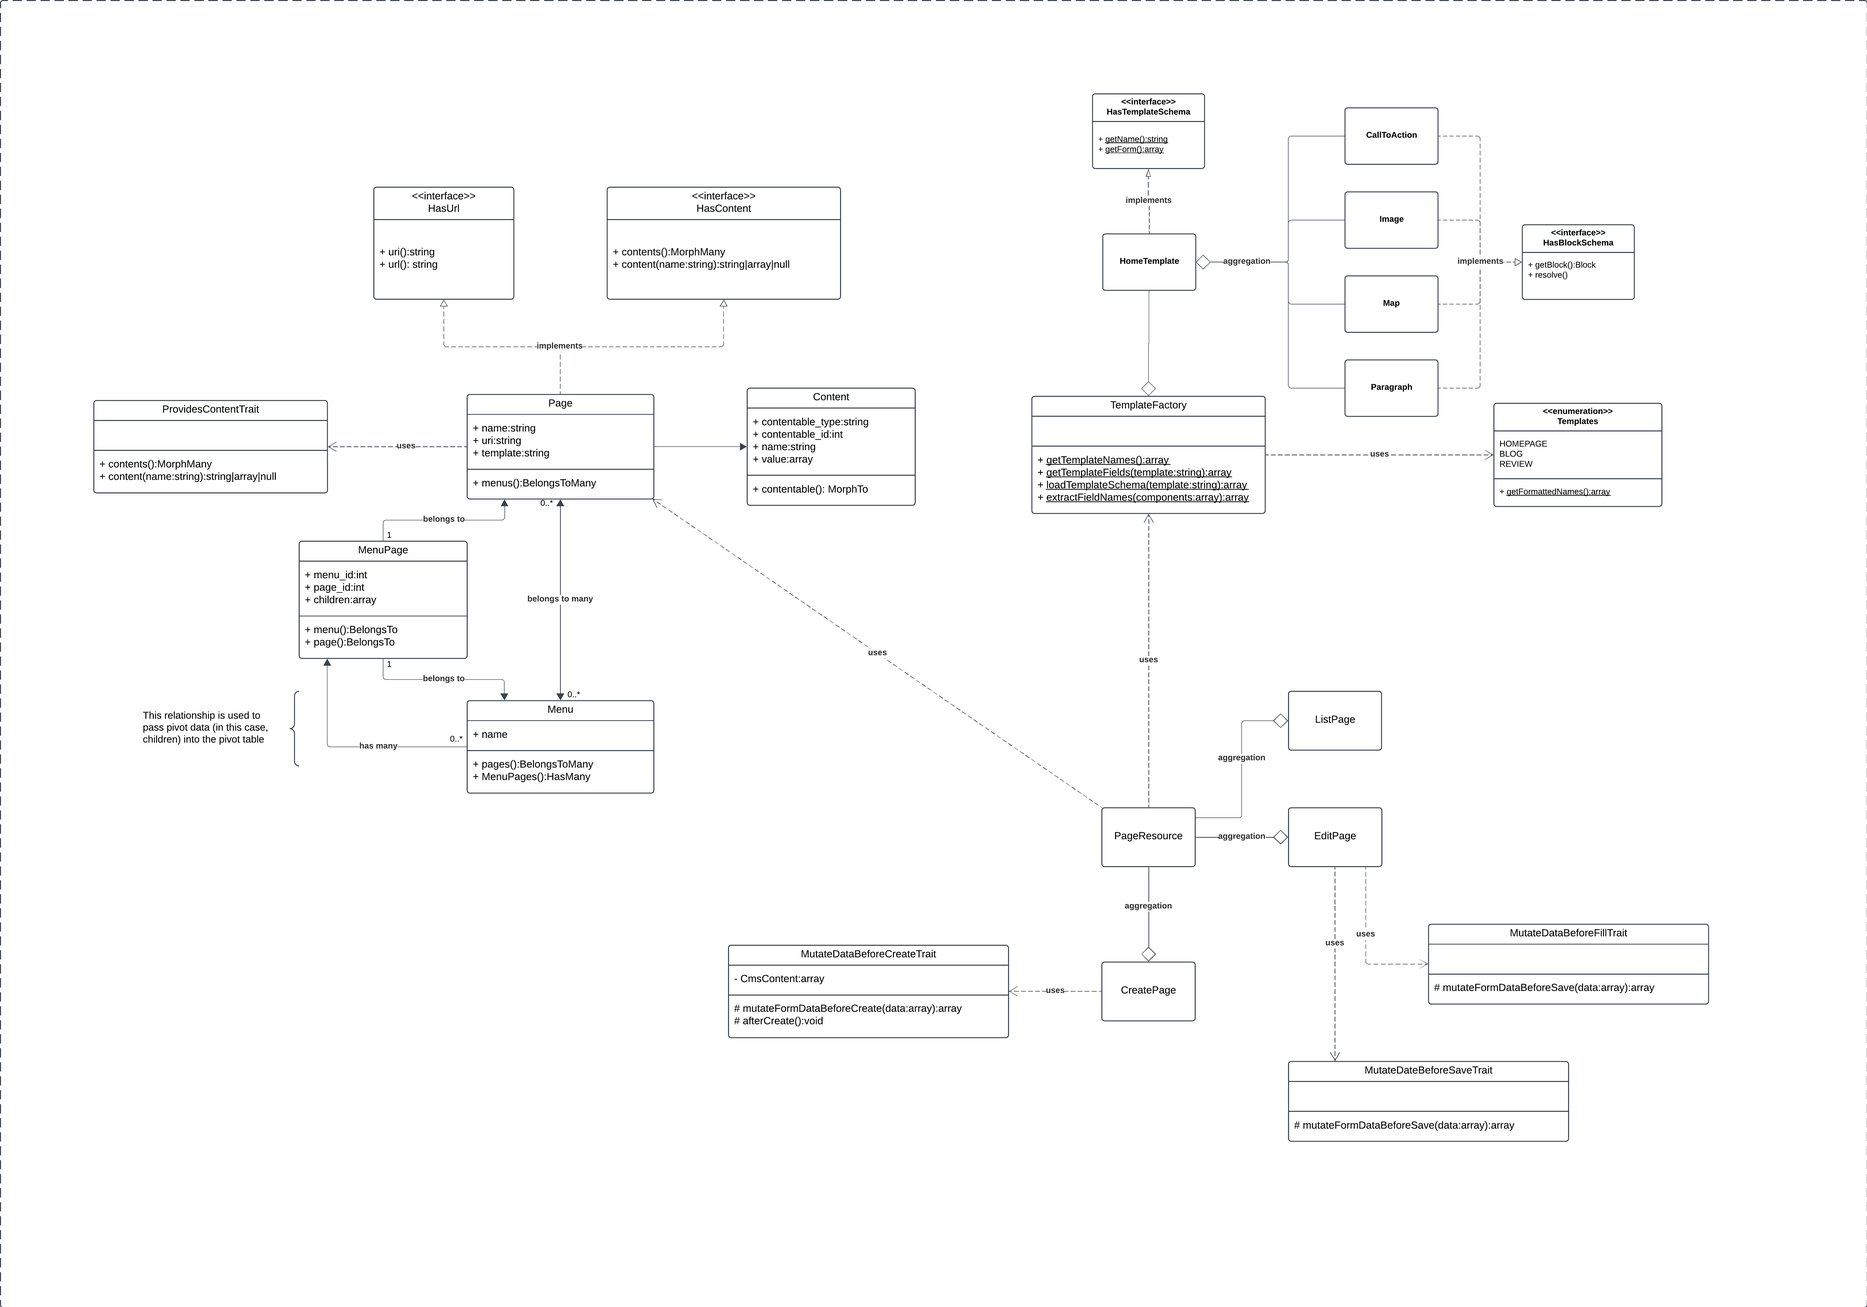
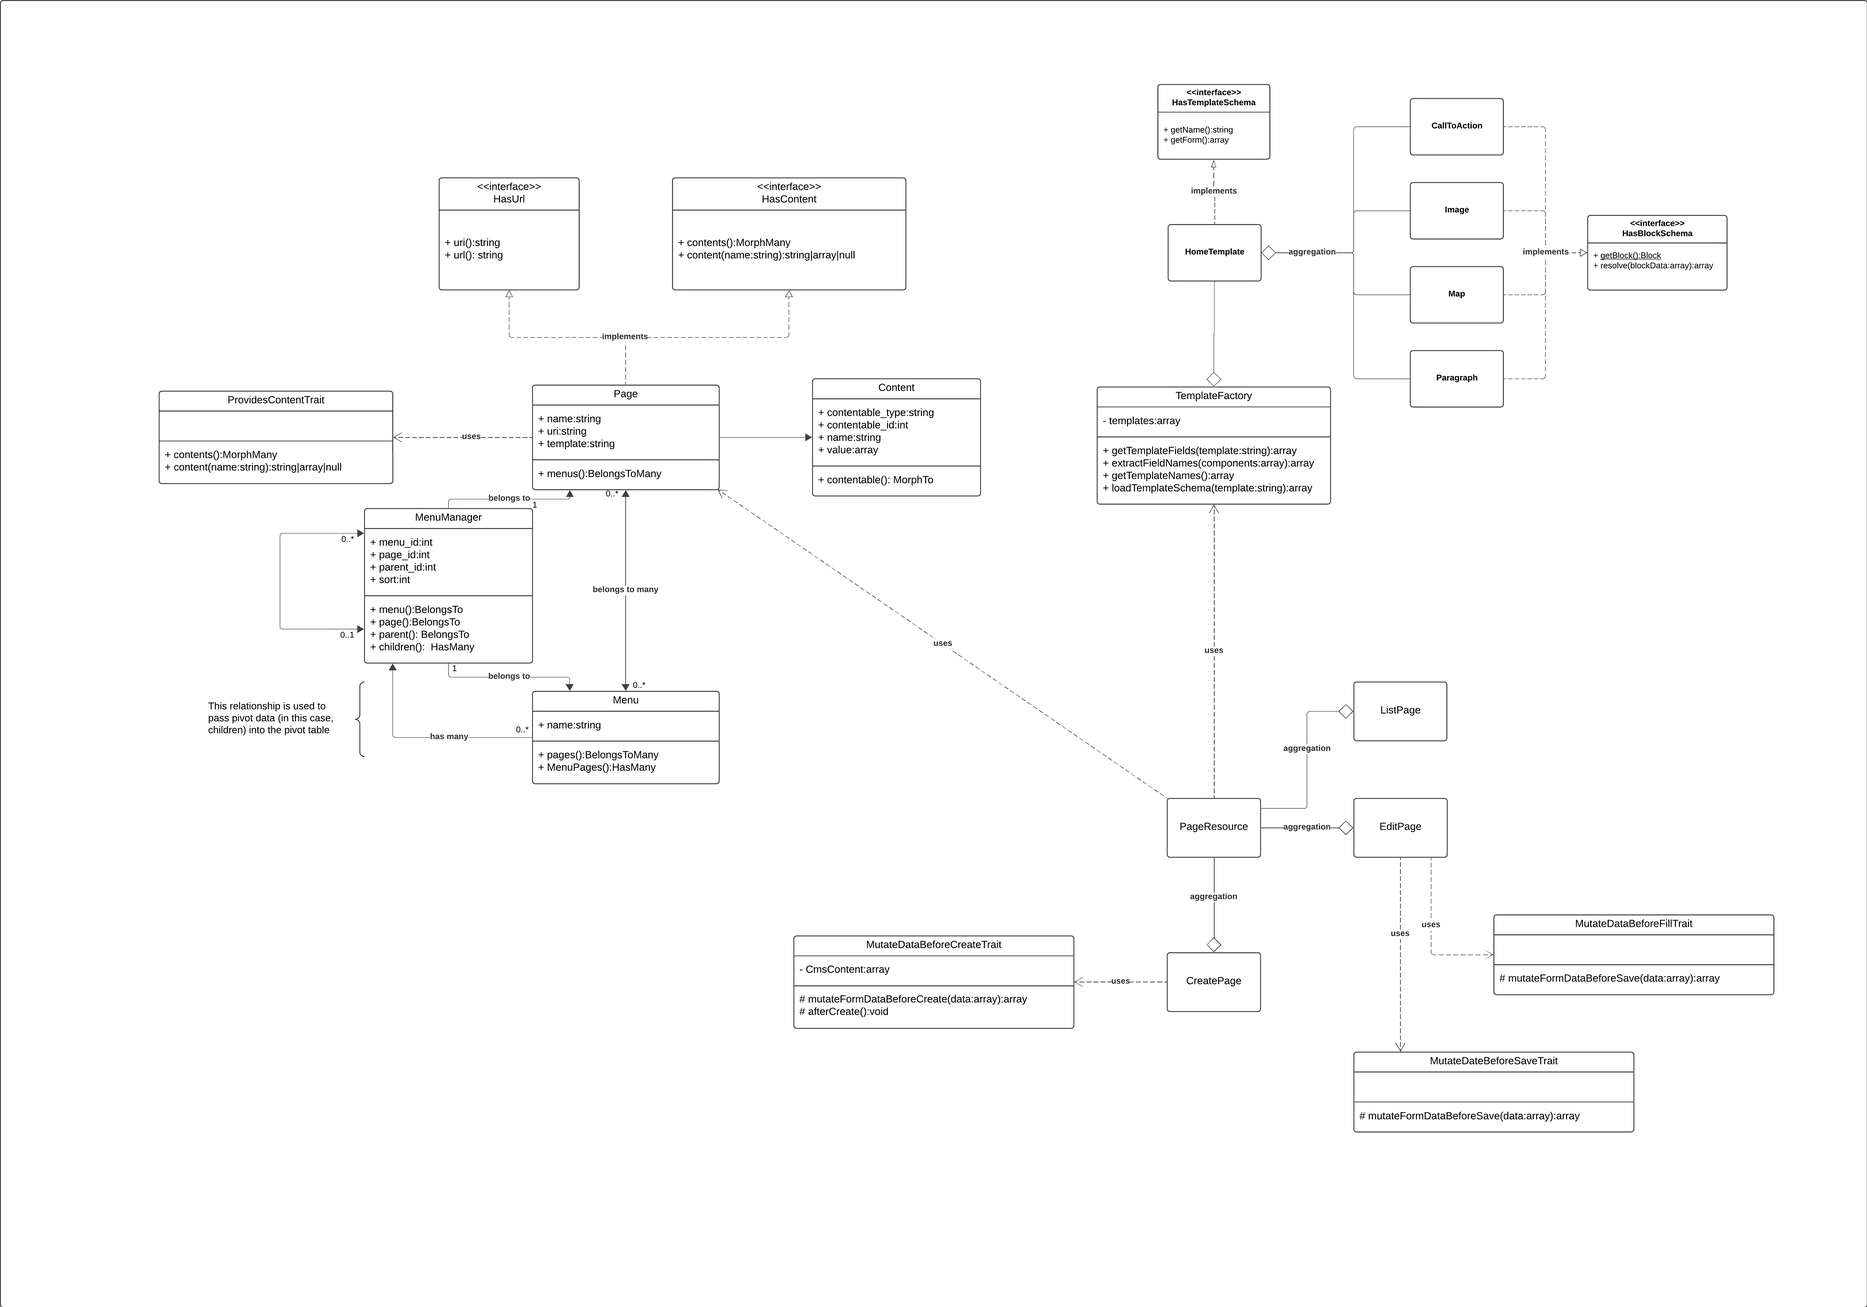
update leeswijzer and prototype documentation

diff --git a/DesignRealisatie/TechnischeDocumentatieCmsPrototypes.md b/DesignRealisatie/TechnischeDocumentatieCmsPrototypes.md
@@ -1,7 +1,7 @@
-# CMS Prototypes Realisatie
+# Technische Documentatie CMS Prototypes
 
-Dit document geeft een overzicht van de basisfunctionaliteiten van een Content Management Systeem (CMS) en beschrijft hoe de prototypes kunnen worden opgebouwd.
-## Contentbeheer in AllesOnline CMS
+Dit document geeft een overzicht over de werking van de verschillende Content Management Systemen en beschrijft hoe de ze opgebouwd worden.
+## AllesOnline CMS
 
 ### ContentManagerController
 In het AllesOnline CMS worden pagina’s en hun content beheerd via de `ContentManagerController`. Deze controller wordt meestal zonder aanpassingen geïmporteerd vanuit het AllesOnline CMS-pakket en biedt toegang tot de `ManagedContent`, `Page`, en `CMSContent`-modellen voor de configuratie van content-elementen.
@@ -22,7 +22,7 @@ class ContentManagerController extends ContentManager
 ```
 
 ### XML-schema voor Templates met CMS-content
-Binnen de `ContentManager` worden `Page`-objecten dynamisch gegenereerd via XML-templates die specificeren welke velden (zoals tekst, afbeeldingen en blokken) kunnen worden toegevoegd. Dit stelt ontwikkelaars in staat om template-schema's te definiëren voor CMS-gebruikers.
+Binnen de `ContentManager` worden `Page`-objecten dynamisch gegenereerd via XML-templates die specificeren welke velden (zoals tekst, afbeeldingen en blokken) kunnen worden toegevoegd. Dit stelt developers in staat om template-schema's te definiëren voor CMS-gebruikers.
 
 **XML-schema voor Template in AO CMS**
 
@@ -52,9 +52,9 @@ Contentblokken kunnen ook worden gedefinieerd met XML en vervolgens in verschill
 
 Dit blok bevat een titel- en tekstveld met RichText-functionaliteit voor tekstopmaak.
 
-## Contentbeheer in CMS met Filament
+## CMS met Filament
 
-In Filament kan een soortgelijke functionaliteit worden gerealiseerd door gebruik te maken van Resources en een Eloquent-model gebaseerd op het `Page`-model van AllesOnline CMS. Dit model bevat de gegevens en relaties van pagina’s en hun hiërarchie.
+In Filament kan een soortgelijke functionaliteit worden gerealiseerd door gebruik te maken van Resources en een Eloquent-model geinspireerd op het `Page`-model van AllesOnline CMS. Dit model bevat de gegevens en relaties van pagina’s en hun hiërarchie.
 
 *Een UML class-diagram met het onderstaande concept voor content management kan je [hier bekijken](../Bijlagen/UmlEntiteitenDiagramContentManagementFilament.md)*
 
@@ -70,13 +70,13 @@ namespace App\Models;
 
 use App\Models\Interfaces\HasContent;
 use App\Models\Interfaces\HasUrl;
-use App\Models\Traits\ProvideContent;
+use App\Models\Traits\ProvidesContentTrait;
 use Illuminate\Database\Eloquent\Model;
 use Illuminate\Database\Eloquent\Relations\BelongsToMany;
 
 class Page extends Model implements HasContent, HasUrl
 {
-    use ProvideContent;
+    use ProvidesContentTrait;
 
     protected $table = 'pages';
 
@@ -156,7 +156,7 @@ interface HasUrl
 ### Traits
 
 #### ProvidesContentTrait
-Zoals eerder omschreven bevat de `ProvidesContentTrait` de logica voor de polymorfe relatie tussen het model dat `HasContent` implementeert en het Content-model.
+De `ProvidesContentTrait` bevat de logica voor de polymorfe relatie tussen het model dat `HasContent` implementeert en het Content-model. Door gebruik te maken van een **trait** kan deze logica op een eenvoudige manier worden hergebruikt. Als er andere functionaliteit nodig is, kan er een nieuwe trait worden gedefinieerd, of kunnen de functies uit de `HasContent`-interface direct in de betreffende class worden geïmplementeerd.
 
 ```php
 <?php
@@ -181,13 +181,15 @@ trait ProvidesContentTrait
 ```
 
 ### Filament PageResource en Dynamische Templates
-Met dit `Page`-model kan een Filament `PageResource` een formulier genereren voor het beheren van pagina’s. Een selectievak stelt de gebruiker in staat een template te kiezen, waarna het formulier dynamisch wordt aangepast op basis van de geselecteerde template.
+Met het `Page`-model kan een Filament `PageResource` een formulier genereren voor het beheren van pagina’s. Een select-veld stelt de gebruiker in staat om een template te kiezen, waarna het formulier dynamisch de velden van de bijbehorende template inlaadt.
 
 **Schema voor Content Management in CMS met Filament**
 
 ```php
 public static function form(Form $form): Form
     {
+        $templateFactory = app(TemplateFactory::class);
+
         return $form
             ->schema([
                 Forms\Components\Section::make()->schema([
@@ -203,18 +205,21 @@ public static function form(Form $form): Form
                         ->unique(ignoreRecord: true)
                         ->required(),
 
+					// Het select veld voor het selecteren van een template
                     Forms\Components\Select::make('template')
-                        ->options(TemplateFactory::getTemplateNames())
+                        ->options($templateFactory->getTemplateNames())
                         ->required()
                         ->live(),
 
+					// Het onderdeel van het formulier dat dynamisch wordt 
+					//  ingeladen nadat de gebruiker een template selecteert
                     Forms\Components\Section::make()
-                        ->schema(function (Get $get) {
+                        ->schema(function (Get $get) use ($templateFactory) {
                             if ($get('template')) {
                                 return 
-									TemplateFactory::loadTemplateSchema(
-										$get('template')
-									);
+	                                $templateFactory->loadTemplateSchema(
+		                                $get('template')
+		                            );
                             }
 
                             return [];
@@ -225,7 +230,7 @@ public static function form(Form $form): Form
 ```
 
 ### TemplateFactory voor Dynamische Template-selectie
-De `TemplateFactory`-class ondersteunt de selectie en dynamische weergave van velden op basis van het door de gebruiker gekozen template.
+De `TemplateFactory`-class ondersteunt de selectie en dynamische weergave van velden op basis van het door de gebruiker gekozen template in de `PageResource`.
 
 **TemplateFactory in CMS met Filament**
 
@@ -234,34 +239,18 @@ De `TemplateFactory`-class ondersteunt de selectie en dynamische weergave van ve
 
 namespace App\Cms;
 
-use App\Cms\Templates\Enums\Templates;
 use App\Cms\Templates\Interfaces\HasTemplateSchema;
 
-class TemplateFactory
+readonly class TemplateFactory
 {
-    public static function getTemplateNames(): array
+    public function __construct(private array $templates) {}
+
+    public function getTemplateFields(string $template): array
     {
-        return Templates::getFormattedNames();
+        return $this->extractFieldNames($this->loadTemplateSchema($template));
     }
 
-    public static function getTemplateFields(string $template): array
-    {
-        return self::extractFieldNames(self::loadTemplateSchema($template));
-    }
-
-    public static function loadTemplateSchema(string $template): array
-    {
-        if (! class_exists($template)) {
-            abort(404);
-        }
-
-        $templateClass = new $template;
-        return $templateClass instanceof HasTemplateSchema 
-        ? $templateClass->getForm() 
-        : [];
-    }
-
-    protected static function extractFieldNames(array $components): array
+    protected function extractFieldNames(array $components): array
     {
         $fields = [];
 
@@ -269,22 +258,41 @@ class TemplateFactory
             if (method_exists($component, 'getName')) {
                 $fields[] = $component->getName();
             }
-
-            if (method_exists($component, 'getSchema')) {
-                $fields = array_merge(
-	                $fields, 
-	                self::extractFieldNames($component->getSchema())
-                );
-            }
         }
 
         return $fields;
+    }
+
+    public function getTemplateNames(): array
+    {
+        $formattedNames = [];
+
+        foreach ($this->templates as $className => $templateClass) {
+            if ($templateClass instanceof HasTemplateSchema) {
+                $formattedNames[$className] = $templateClass->getName();
+            }
+        }
+
+        return $formattedNames;
+    }
+
+    public function loadTemplateSchema(string $template): array
+    {
+        if (! class_exists($template)) {
+            abort(404);
+        }
+
+        $templateClass = new $template;
+
+        return $templateClass instanceof HasTemplateSchema
+            ? $templateClass->getForm()
+            : [];
     }
 }
 ```
 
 ### Class voor Templates in CMS met Filament
-Template-velden worden beheerd in specifieke classes die een array met Filament FormField-componenten teruggeven aan de Resource.
+Een `Template` wordt beheerd in een specifieke class die een array met Filament FormField-componenten teruggeven aan een `Resource`.
 
 **Template-class in CMS met Filament**
 
@@ -302,14 +310,14 @@ use Filament\Forms\Components\Builder;
 use Filament\Forms\Components\FileUpload;
 use Filament\Forms\Components\TextInput;
 
-class Homepage implements HasTemplateSchema
+class HomeTemplate implements HasTemplateSchema
 {
-	public static function getName(): string
-	{
-		return 'Homepage';
-	}
+    public function getName(): string
+    {
+        return 'Homepage';
+    }
 
-    public static function getForm(): array
+    public function getForm(): array
     {
         return [
             TextInput::make('header_title')
@@ -333,12 +341,10 @@ class Homepage implements HasTemplateSchema
 }
 ```
 
-Het bovenstaande template bevat, net zoals het AO CMS-template, een veld voor een headerafbeelding en een titel. Gebruikers kunnen ook blokken selecteren om toe te voegen.
+Het bovenstaande sjabloon bevat een veld voor een headerafbeelding, een titel en biedt de mogelijkheid om contentblokken toe te voegen.
 
 ### Interfaces
-Alle templates implementeren de interface `HasTemplateSchema`. Deze interface vereist dat de classes die het implementeren een schema voor hun CMS content beschikbaar stelt. Door dit te implementeren, kunnen we garanderen dat een template - dat in de `TemplateFactory` wordt geïnjecteerd - over de functionaliteit beschikt om dit schema op te halen.
-
-Om het ophalen van het _FormSchema_ gemakkelijker te maken voor developers, is ervoor gekozen om de functie `static` te maken. Dit kan het DIP-principe van SOLID schenden en leiden tot een _tight coupling_. Echter, in gevallen waarin dit gebeurt, is het vanzelfsprekend dat er een sterke afhankelijkheid bestaat tussen het schema en de functie die het schema opvraagt. Neem bijvoorbeeld het `Review`-model, dat voor zijn CMS-content gebruik zal maken van de `ReviewTemplate`-class.
+Een `Template` implementeert de interface `HasTemplateSchema`. Deze interface vereist dat classes een schema voor hun CMS-content en een naam beschikbaar stellen. Het schema wordt verwacht in de `TemplateFactory`, terwijl de naam wordt gebruikt in het select-veld waarin gebruikers in de `Page`-resource een template kiezen.
 
 **HasTemplateSchema interface in het CMS met Filament**
 
@@ -349,45 +355,9 @@ namespace App\Cms\Templates\Interfaces;
 
 interface HasTemplateSchema
 {
-    public static function getForm(): array;
-}
-```
+    public function getName(): string;
 
-### Enums
-Alle templates die gebruikers kunnen selecteren binnen het `Page`-model worden centraal beheerd in `Templates`. Deze `enum` bevat verschillende cases, waarbij elke case de classname van een specifieke template vertegenwoordigt. Naast het eenvoudig bijhouden van deze classnames biedt de enum aanvullende functionaliteit om de cases op een voor de gebruiker leesbare manier te presenteren.
-
-```php
-<?php
-
-namespace App\Cms\Templates\Enums;
-
-use App\Cms\Templates\BlogTemplate;
-use App\Cms\Templates\HomeTemplate;
-use App\Cms\Templates\Interfaces\HasTemplateSchema;
-use App\Cms\Templates\ReviewTemplate;
-
-enum Templates: string
-{
-    case HOMEPAGE = HomeTemplate::class;
-    case BLOG = BlogTemplate::class;
-    case REVIEW = ReviewTemplate::class;
-
-    public static function getFormattedNames(): array
-    {
-        $cases = self::cases();
-        $formattedNames = [];
-
-        foreach ($cases as $case) {
-            $templateClass = new $case->value;
-            
-            if ($templateClass instanceof HasTemplateSchema) {
-                $formattedNames[$templateClass::class] 
-		            = $templateClass->getName();
-            }
-        }
-
-        return $formattedNames;
-    }
+    public function getForm(): array;
 }
 ```
 
@@ -411,10 +381,10 @@ trait MutateDataBeforeCreateTrait
 
     protected function mutateFormDataBeforeCreate(array $data): array
     {
+        $templateFactory = app(TemplateFactory::class);
         if (! empty($data['template'])) {
             $templateFields = 
-	            TemplateFactory::getTemplateFields($data['template']);
-	            
+	            $templateFactory->getTemplateFields($data['template']);
             $this->cmsContent = Arr::only($data, $templateFields);
         }
 
@@ -426,9 +396,9 @@ trait MutateDataBeforeCreateTrait
         if ($this->cmsContent) {
             foreach ($this->cmsContent as $name => $value) {
                 $this->record->contents()->create([
-	                'name' => $name,
-	                'value' => $value
-	            ]);
+		            'name' => $name,
+		            'value' => $value
+                ]);
             }
         }
     }
@@ -475,7 +445,8 @@ trait MutateDateBeforeSaveTrait
 {
     protected function mutateFormDataBeforeSave(array $data): array
     {
-        $templateFields = TemplateFactory::getTemplateFields($data['template']);
+        $templateFactory = app(TemplateFactory::class);
+        $templateFields = $templateFactory->getTemplateFields($data['template']);
         $cmsContent = Arr::only($data, $templateFields);
 
         foreach ($cmsContent as $name => $value) {
@@ -487,8 +458,7 @@ trait MutateDateBeforeSaveTrait
 
         return Arr::except($data, $templateFields);
     }
-}
-```
+}```
 
 Wanneer CMS-content wordt toegevoegd of bijgewerkt in een bestaand object, wordt het opslaan een stuk eenvoudiger. In dit geval hoeft alleen de relevante content uit de door de gebruiker ingevulde formuliergegevens te worden gehaald en via een Eloquent-relatie te worden opgeslagen. De gegevens die betrekking hebben op het hoofdmodel worden pas na deze handeling opgeslagen.
 ### Blockschema's voor Contentblokken in CMS met Filament
@@ -529,7 +499,7 @@ class Paragraph implements HasBlockSchema
             ]);
     }
 
-    public static function resolve(array $blockData): array
+    public function resolve(array $blockData): array
     {
         return [
             'title' => $blockData['title'],
@@ -555,6 +525,6 @@ interface HasBlockSchema
 {
     public static function getBlock(): Block;
 
-    public static function resolve(array $blockData): array;
+    public function resolve(array $blockData): array;
 }
 ```

diff --git a/ProjectRaport/Leeswijzer.md b/ProjectRaport/Leeswijzer.md
@@ -88,11 +88,11 @@ Het tweede prototype dat ik ben gaan realiseren, was een CMS met Filament. Filam
 > * [Onderzoek naar Filament](../AnalyseAdvies/OnderzoekNaarFilament.md)
 > * [SWOT: Filament](../AnalyseAdvies/SwotFilamentCms.md)
 
-Tijdens het onderzoek ben ik ook begonnen met het ontwerpen en realiseren van een CMS met behulp van de Filament Library. Hierbij heb ik zowel de checklist voor CMS-criteria als de requirements in acht genomen. Daarnaast ben ik begonnen met het beschrijven van de vergelijking tussen hoe specifieke functionaliteiten gerealiseerd kunnen worden in verschillende frameworks en libraries.
+Na het onderzoek ben ik aan de slag gegaan met het ontwerpen en realiseren van een CMS gebaseerd op Filament. Voor het ontwerp van de CMS-functionaliteiten heb ik een iteratieve aanpak gehanteerd. Deze werkwijze stelde me in staat om tijdens elke ontwikkelstap te reflecteren op wat ik had gerealiseerd en wat de volgende logische stap zou zijn. Daarnaast ben ik begonnen met het documenteren van de werking van de verschillende systemen.
 
 > * [Design voor CMS functionaliteit in Filament](../Bijlagen/UmlEntiteitenDiagramContentManagementFilament.md)
-> * [Concepten voor CMS Prototype Realisaties](../DesignRealisatie/CmsPrototypesRealisatie.md)
 > * [Repository: Backend Filament CMS](https://github.com/Quitzchell/graduation-filament-cms)
+> * [Technische documentatie van CMS Prototypes](../DesignRealisatie/TechnischeDocumentatieCmsPrototypes.md)
 
 * **Welke commerciële en open-source CMS-oplossingen voldoen aan de vereisten voor modernisering en kunnen een haalbare vervanging bieden voor het huidige systeem?**
 	- **Filament**: Filament is dankzij zijn flexibiliteit en modulaire opbouw geschikt als basis voor een CMS voor organisaties die maatwerk nodig hebben bij het beheren van hun contentbehoeften. Daarnaast is de library populair binnen de Laravel-community ([State of Laravel, Administration Panel Results](https://stateoflaravel.com/results#question:administration+panel)). Vanwege de beperkte ondersteuning voor diepere hiërarchieën en relationele structuren is de library echter nog afhankelijk van externe of zelfontwikkelde oplossingen.

diff --git a/Bijlagen/EvidenceInVerhoudingTotLeeruitkomsten.md b/Bijlagen/EvidenceInVerhoudingTotLeeruitkomsten.md
@@ -14,5 +14,5 @@
 | [Onderzoek naar CMS met Filament](../AnalyseAdvies/OnderzoekNaarFilament.md)                                   | Professional Duties, Investigative Problem Solving, Future-Oriented Organisation |
 | [SWOT: Filament](../AnalyseAdvies/SwotFilamentCms.md)                                                                | Professional Duties, Future-Oriented Organisation                                |
 | [Design voor CMS functionaliteit in Filament](../Bijlagen/UmlEntiteitenDiagramContentManagementFilament.md)          | Professional Duties                                                              |
-| [Concepten voor CMS Prototype Realisaties](../DesignRealisatie/CmsPrototypesRealisatie.md)                           | Professional Duties, Situation-Orientation                                       |
+| [Concepten voor CMS Prototype Realisaties](TechnischeDocumentatieCmsPrototypes.md)                           | Professional Duties, Situation-Orientation                                       |
 | [Repository: Backend Filament CMS](https://github.com/Quitzchell/graduation-filament-cms)                            | Professional Duties                                                              |

diff --git a/README.md b/README.md
@@ -23,7 +23,7 @@
 # Design & Realisatie
 
 * ### [Opzet van het prototype](./DesignRealisatie/OpzetVanDePrototypes.md)
-* ### [Concepten voor CMS Prototype Realisaties](./DesignRealisatie/CmsPrototypesRealisatie.md)
+* ### [Concepten voor CMS Prototype Realisaties](TechnischeDocumentatieCmsPrototypes.md)
 * ### [Repository: Frontend Prototype](https://github.com/Quitzchell/graduation-frontend)
 * ### [Repository: Backend AO CMS](https://github.com/Quitzchell/graduation-ao-cms/)
 * ### [Repository: Backend Filament CMS](https://github.com/Quitzchell/graduation-filament-cms)
